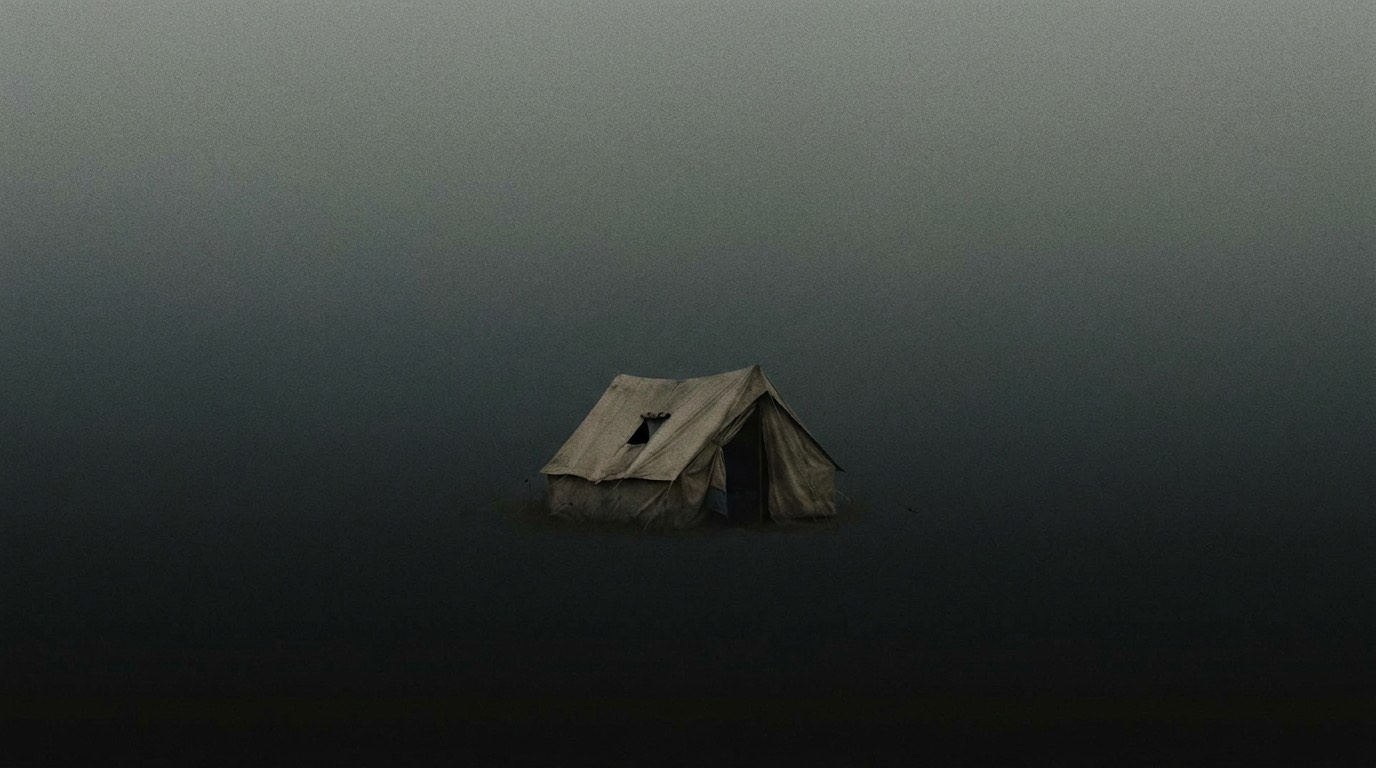
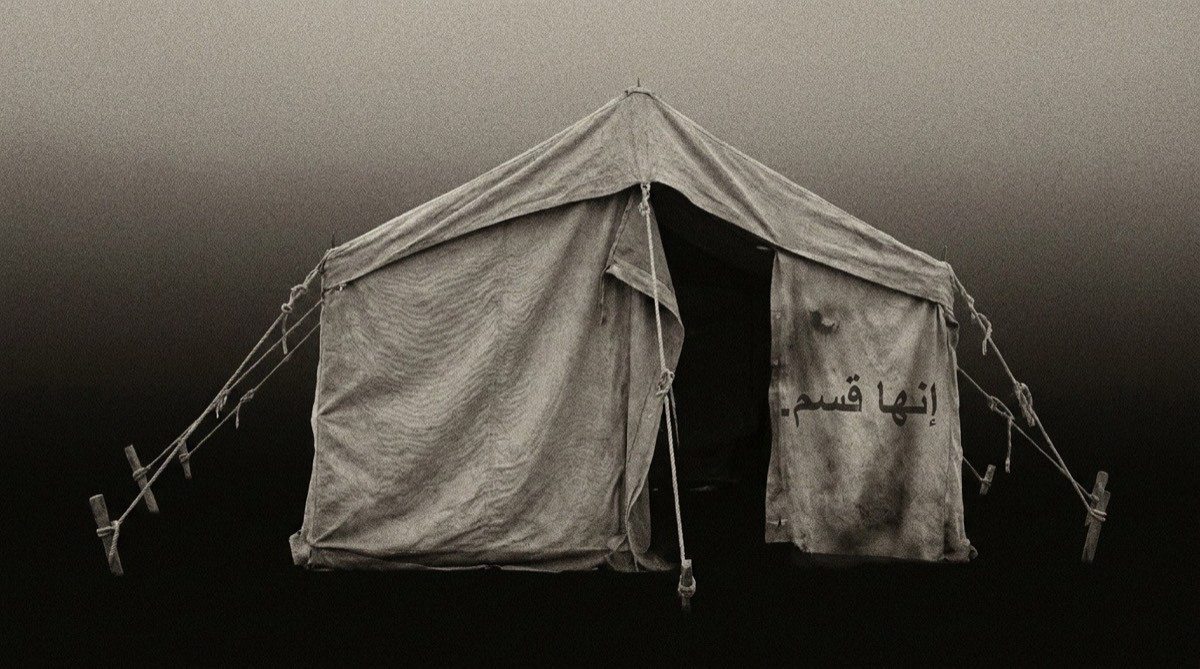
fix(hero): إبراز خيمة الصمود بجودة فائقة ومسرح بصري واضح صريح دون أي تعتيم

diff --git a/index.html b/index.html
@@ -63,25 +63,37 @@
 
   <!-- القسم الرئيسي: النداء والافتتاحية السيادية -->
   <section class="hero-section" id="hero">
-    <div class="hero-bg-wrapper">
-      <img src="images/hero-tent.jpg" alt="خيمة معزولة في عتمة ليل المخيمات ترمز لصمود السوريين" class="hero-bg-img" width="1600" height="900">
-      <div class="hero-overlay"></div>
-    </div>
-    <div class="container hero-content">
-      <div class="hero-badge">
-        <img src="images/eagle-emblem-metal.svg" alt="نسر السيادة المعدني" class="badge-eagle" width="22" height="22">
-        <span>رؤية سياسية ووطنية مستقلة بقلم خلدون عكرمة</span>
+    <div class="container hero-container">
+      <div class="hero-header-area">
+        <div class="hero-badge">
+          <img src="images/eagle-emblem-metal.svg" alt="نسر السيادة المعدني" class="badge-eagle" width="22" height="22">
+          <span>رؤية سياسية ووطنية مستقلة بقلم خلدون عكرمة</span>
+        </div>
+        <h1 class="hero-title">لماذا لا ننتظر نهاية الفترة الانتقالية؟ سنوات التحصين الخمس في مواجهة الفلول والدولة العميقة</h1>
       </div>
-      <h1 class="hero-title">لماذا لا ننتظر نهاية الفترة الانتقالية؟ سنوات التحصين الخمس في مواجهة الفلول والدولة العميقة</h1>
-      <p class="hero-lead">
-        أي تشاركية سياسية تلك التي يُطالب بها قبل أن تكتمل أركان الدولة وتُحصن مؤسساتها؟ حين يجلس الفلول في بيوتهم المترفة متربصين بالصناديق، بينما الشعب الثائر لا يزال في خيام البرد والصقيع، لم يفكر بعد بترف الاقتراع بل بحقه في الأمان والعدالة والعودة الكريمة!
-      </p>
-      <div class="hero-meta">
-        <span class="meta-item">دمشق وسوريا الحرة</span>
-        <span class="meta-separator">•</span>
-        <span class="meta-item">سبتمبر 2026</span>
-        <span class="meta-separator">•</span>
-        <span class="meta-item">القراءة التوثيقية الكاملة</span>
+
+      <!-- مسرح اللقطة الوثائقية المركزية: خيمة الصمود بكامل وضوحها وهيبتها -->
+      <div class="hero-stage-card">
+        <div class="hero-image-frame">
+          <img src="images/hero-tent.jpg" alt="خيمة الصمود والكرامة وسط العتمة: حيث يرقد أصحاب الحق بينما يتربص الفلول بالصناديق" class="hero-stage-img" width="1376" height="768">
+          <div class="hero-image-badge">
+            <span class="badge-dot" aria-hidden="true"></span>
+            <span>الرمزية المركزية: خيمة الصمود والكرامة (إنها قسم)</span>
+          </div>
+        </div>
+
+        <div class="hero-lead-card">
+          <p class="hero-lead">
+            أي تشاركية سياسية تلك التي يُطالب بها قبل أن تكتمل أركان الدولة وتُحصن مؤسساتها؟ حين يجلس الفلول في بيوتهم المترفة متربصين بالصناديق، بينما الشعب الثائر لا يزال في خيام البرد والصقيع، لم يفكر بعد بترف الاقتراع بل بحقه في الأمان والعدالة والعودة الكريمة!
+          </p>
+          <div class="hero-meta">
+            <span class="meta-item">دمشق وسوريا الحرة</span>
+            <span class="meta-separator">•</span>
+            <span class="meta-item">سبتمبر 2026</span>
+            <span class="meta-separator">•</span>
+            <span class="meta-item">القراءة التوثيقية الكاملة</span>
+          </div>
+        </div>
       </div>
     </div>
   </section>

diff --git a/style.css b/style.css
@@ -303,50 +303,33 @@ button {
 /* 7. القسم البصري المفتتح (Hero) */
 .hero-section {
   position: relative;
-  min-height: 84vh;
-  display: flex;
-  align-items: center;
-  overflow: hidden;
-  padding-top: 4.5rem;
-  padding-bottom: 5.5rem;
+  padding-top: 3.5rem;
+  padding-bottom: 5rem;
   border-bottom: 1px solid var(--border-subtle);
+  background: radial-gradient(circle at 50% 20%, var(--bg-secondary) 0%, var(--bg-primary) 80%);
 }
 
-.hero-bg-wrapper {
-  position: absolute;
-  inset: 0;
-  z-index: 1;
+.hero-container {
+  display: flex;
+  flex-direction: column;
+  align-items: center;
 }
 
-.hero-bg-img {
-  width: 100%;
-  height: 100%;
-  object-fit: cover;
-  object-position: center 38%;
-  filter: brightness(0.65) contrast(1.15);
-}
-
-.hero-overlay {
-  position: absolute;
-  inset: 0;
-  background: linear-gradient(to top, var(--bg-primary) 10%, var(--bg-overlay) 60%, var(--bg-overlay-deep) 100%);
-}
-
-.hero-content {
-  position: relative;
-  z-index: 2;
-  max-width: 960px;
+.hero-header-area {
+  text-align: center;
+  max-width: 980px;
+  margin-bottom: 2.5rem;
 }
 
 .hero-badge {
   display: inline-flex;
   align-items: center;
   gap: 0.65rem;
-  padding: 0.45rem 1rem;
-  background: var(--bg-glass-card);
+  padding: 0.45rem 1.15rem;
+  background: var(--bg-card);
   border: 1px solid var(--border-card);
   border-radius: var(--radius-full);
-  margin-bottom: 1.75rem;
+  margin-bottom: 1.5rem;
   box-shadow: var(--shadow-sm);
 }
 
@@ -364,21 +347,90 @@ button {
 
 .hero-title {
   font-family: var(--font-heading);
-  font-size: 2.75rem;
+  font-size: 2.65rem;
   font-weight: 900;
-  line-height: 1.25;
+  line-height: 1.3;
   color: var(--text-primary);
-  margin-bottom: 1.5rem;
   letter-spacing: -0.02em;
   text-shadow: 0 3px 12px rgba(0, 0, 0, 0.7);
 }
 
+.hero-stage-card {
+  width: 100%;
+  max-width: 1060px;
+  background: var(--bg-card);
+  border: 1px solid var(--border-card);
+  border-radius: var(--radius-lg);
+  overflow: hidden;
+  box-shadow: var(--shadow-lg);
+  transition: border-color var(--transition-fast), box-shadow var(--transition-smooth);
+}
+
+.hero-stage-card:hover {
+  border-color: var(--accent-gold);
+  box-shadow: var(--shadow-gold);
+}
+
+.hero-image-frame {
+  position: relative;
+  width: 100%;
+  aspect-ratio: 16 / 9;
+  overflow: hidden;
+  background-color: var(--bg-secondary);
+}
+
+.hero-stage-img {
+  width: 100%;
+  height: 100%;
+  object-fit: cover;
+  object-position: center;
+  filter: contrast(1.05);
+  transition: transform 0.6s cubic-bezier(0.16, 1, 0.3, 1);
+}
+
+.hero-stage-card:hover .hero-stage-img {
+  transform: scale(1.02);
+}
+
+.hero-image-badge {
+  position: absolute;
+  bottom: 1.25rem;
+  right: 1.25rem;
+  display: inline-flex;
+  align-items: center;
+  gap: 0.6rem;
+  padding: 0.45rem 1rem;
+  background: var(--bg-glass-card);
+  border: 1px solid var(--border-card);
+  border-radius: var(--radius-full);
+  font-family: var(--font-heading);
+  font-size: 0.85rem;
+  font-weight: 700;
+  color: var(--accent-gold);
+  backdrop-filter: blur(10px);
+  -webkit-backdrop-filter: blur(10px);
+  box-shadow: var(--shadow-sm);
+}
+
+.badge-dot {
+  width: 8px;
+  height: 8px;
+  background-color: var(--accent-gold);
+  border-radius: var(--radius-full);
+}
+
+.hero-lead-card {
+  padding: 2.25rem 2.5rem;
+  background: var(--bg-card);
+  border-top: 1px solid var(--border-subtle);
+}
+
 .hero-lead {
   font-size: 1.35rem;
-  line-height: 2;
-  color: var(--text-secondary);
-  margin-bottom: 2rem;
-  text-shadow: 0 2px 6px rgba(0, 0, 0, 0.8);
+  line-height: 2.05;
+  color: var(--text-primary);
+  margin-bottom: 1.5rem;
+  font-weight: 500;
 }
 
 .hero-meta {
